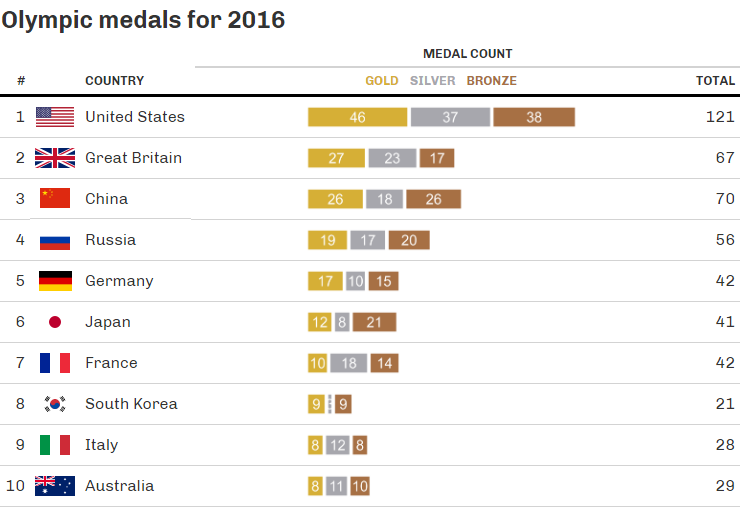
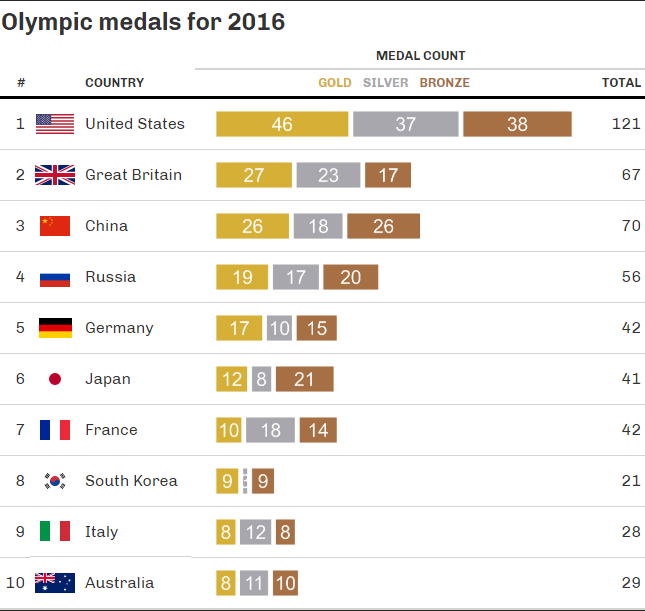
clean output

Changed region(s): [[0.0, 0.0592, 1.0, 1.0], [0.0, 0.0, 0.4651, 0.0592]]

diff --git a/2021/2021_07_27/README.md b/2021/2021_07_27/README.md
@@ -103,7 +103,7 @@ gt_object <-
     locations = cells_body(columns = c(dummy)),
     fn = function(x){
       #map(.$data, ggplot_image, height = px(10))
-      cleaned_df_gg$data %>% map(ggplot_image, height = px(30), aspect_ratio = 9.9)
+      cleaned_df_gg$data %>% map(ggplot_image, height = px(40), aspect_ratio = 9.9)
     }
   ) %>%
   cols_hide(c(data)) %>%
@@ -154,7 +154,7 @@ gt_object <-
     )
   ) %>%
   cols_width(
-    dummy ~ px(500)
+    dummy ~ px(400)
   )
 ```
 
